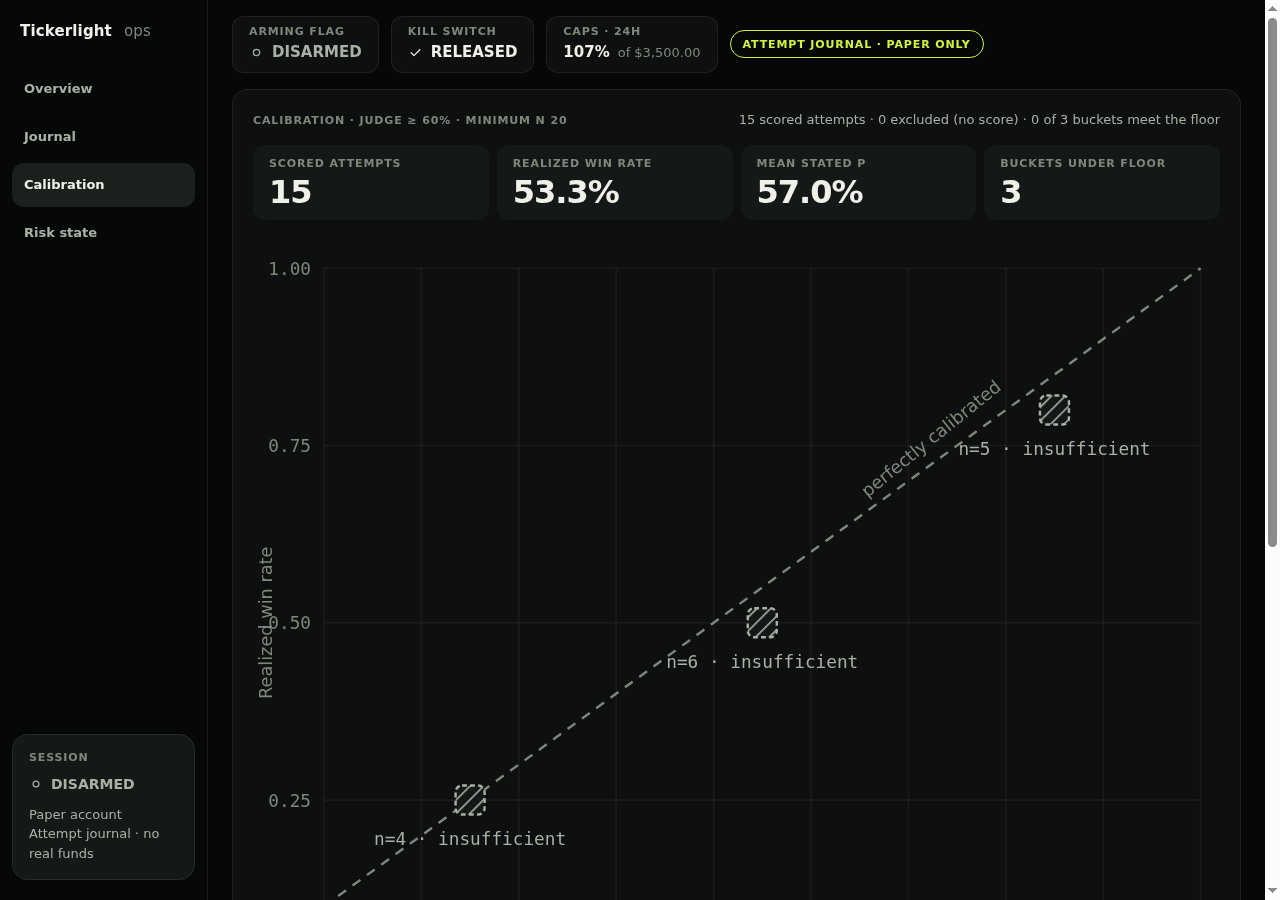
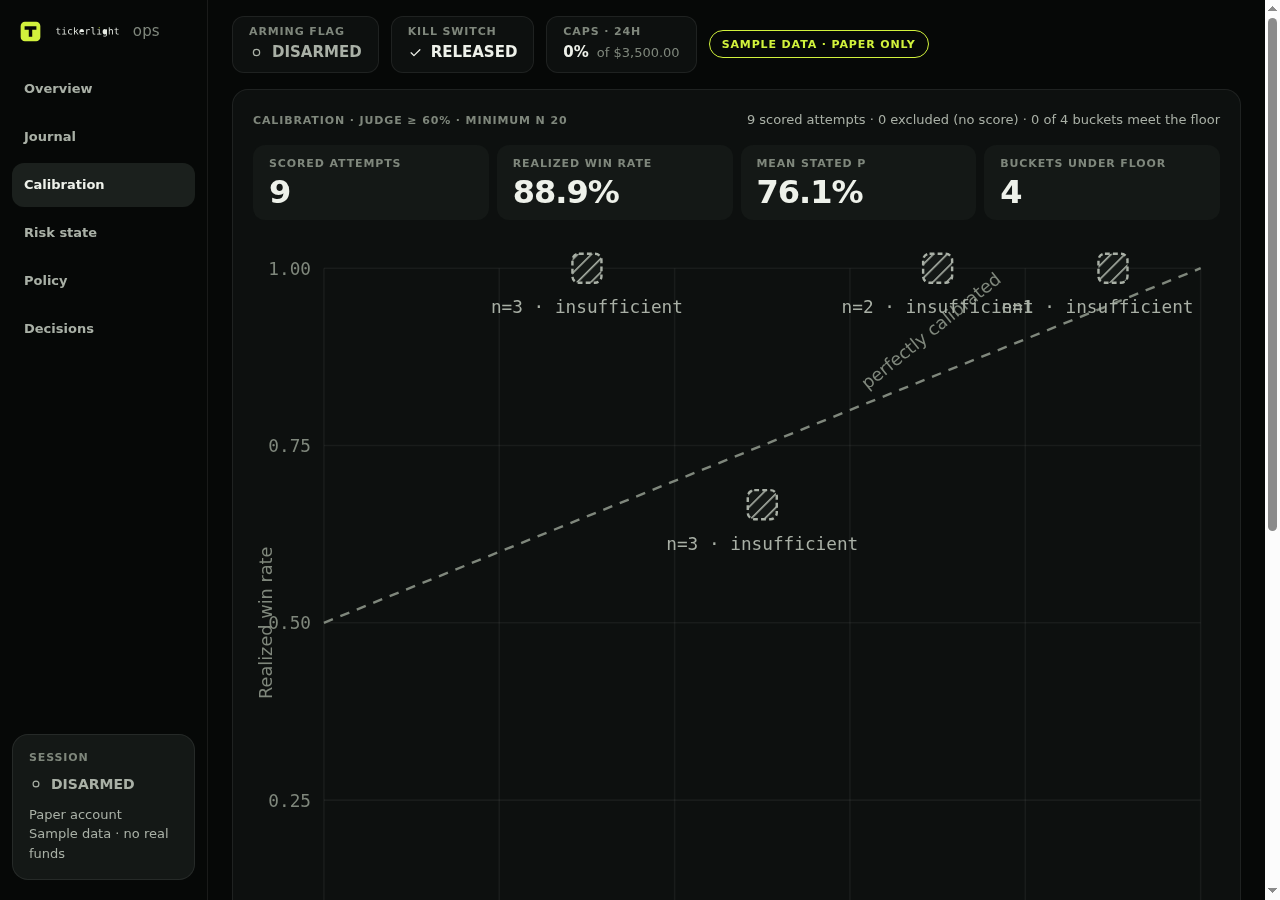
feat(brand): replace the mark with the T-in-tile and wire it everywhere (#20)
* feat(brand): replace the mark with the T-in-tile and wire it everywhere

The console had a mark nobody could read at icon size and a wordmark that
depended on a monospace font being installed. This replaces both.

- One shape: a lime tile with a T cut out of it. The tile is the surface,
  the T is the dark showing through, so the mark has no seams and inverts
  to one colour without redrawing.
- The wordmark ships as outlines, extracted from the glyphs, with a single
  lime dot on the i in "light".
- Assets: 512/192/maskable/apple-touch PNGs rasterised at their real sizes
  (no downsampling), plus svg/32/16 favicons and an .ico for old clients.
- The sidebar carries the mark and the outlined wordmark; the rail keeps
  the mark alone, and the narrow layout drops it for the bottom bar.
- README banner rebuilt in the mark's palette, screenshots retaken, and the
  design record kept under docs/brand with the rejected rounds archived.

* chore(brand): keep only the chosen marks in the tree

The brand directory had become a working desk: two rounds of rejected
explorations, my own note files and the local preview harnesses. None of
that is product, docs or evidence, and it is the kind of thing that gets
mistaken for intent later.

Keep the masters and the proof sheet, move the two wordmark sources up to
the top level where the README says they are, and drop the rest - the
history has it. The rejected ideas stay documented as prose in the brand
[…]

diff --git a/internal/web/static/styles.css b/internal/web/static/styles.css
@@ -39,6 +39,8 @@ button:disabled{cursor:not-allowed;opacity:.5}
 .side{position:sticky;top:0;height:100vh;display:flex;flex-direction:column;gap:24px;padding:20px 12px;border-right:1px solid var(--line)}
 .brand{display:flex;align-items:center;gap:12px;padding:0 8px;font-weight:700;font-size:15px;letter-spacing:.01em}
 .brand span{color:var(--lbl);font-weight:500}
+.brand img{display:block;flex:none}
+.brandword{height:15px;width:auto}
 .tabs{display:flex;flex-direction:column;gap:4px}
 .tabs .tablink{display:flex;align-items:center;gap:12px;min-height:44px;padding:0 12px;border:0;border-radius:var(--ri);background:transparent;color:var(--tx2);font-weight:600;text-align:left;transition:background var(--t),color var(--t)}
 .tabs .tablink:hover{background:var(--s2);color:var(--tx)}
@@ -202,7 +204,7 @@ dialog .acts{display:flex;gap:8px;justify-content:flex-end;margin-top:24px}
 @media (max-width:1180px){
   .shell{grid-template-columns:72px minmax(0,1fr)}
   .side{padding:20px 8px;align-items:center}
-  .brand span,.tabs .tablink .tl,.sess{display:none}
+  .brand span,.brand .brandword,.tabs .tablink .tl,.sess{display:none}
   .brand{padding:0}
   .tabs .tablink{justify-content:center;padding:0;width:48px}
   .c8,.c4{grid-column:span 12}

diff --git a/internal/ui/layout_templ.go b/internal/ui/layout_templ.go
@@ -60,7 +60,7 @@ func Layout(v View) templ.Component {
 		if templ_7745c5c3_Err != nil {
 			return templ_7745c5c3_Err
 		}
-		templ_7745c5c3_Err = templruntime.WriteString(templ_7745c5c3_Buffer, 3, ")</title><meta name=\"theme-color\" content=\"#060807\"><meta name=\"mobile-web-app-capable\" content=\"yes\"><meta name=\"apple-mobile-web-app-capable\" content=\"yes\"><meta name=\"apple-mobile-web-app-title\" content=\"Tickerlight\"><meta name=\"apple-mobile-web-app-status-bar-style\" content=\"black-translucent\"><link rel=\"manifest\" href=\"/static/manifest.json\"><link rel=\"apple-touch-icon\" href=\"/static/icons/apple-touch-icon.png\"><link rel=\"icon\" type=\"image/png\" href=\"/static/icons/icon-192.png\"><link rel=\"stylesheet\" href=\"/static/styles.css\"><script src=\"/static/htmx.min.js\" defer></script><script src=\"/static/app.js\" defer></script></head><body><div class=\"shell\"><aside class=\"side\"><div class=\"brand\" aria-hidden=\"true\">Tickerlight <span>ops</span></div>")
+		templ_7745c5c3_Err = templruntime.WriteString(templ_7745c5c3_Buffer, 3, ")</title><meta name=\"theme-color\" content=\"#060807\"><meta name=\"mobile-web-app-capable\" content=\"yes\"><meta name=\"apple-mobile-web-app-capable\" content=\"yes\"><meta name=\"apple-mobile-web-app-title\" content=\"Tickerlight\"><meta name=\"apple-mobile-web-app-status-bar-style\" content=\"black-translucent\"><link rel=\"manifest\" href=\"/static/manifest.json\"><link rel=\"apple-touch-icon\" href=\"/static/icons/apple-touch-icon.png\"><link rel=\"icon\" type=\"image/svg+xml\" href=\"/static/icons/favicon.svg\"><link rel=\"icon\" type=\"image/png\" sizes=\"32x32\" href=\"/static/icons/favicon-32.png\"><link rel=\"icon\" type=\"image/png\" sizes=\"16x16\" href=\"/static/icons/favicon-16.png\"><link rel=\"stylesheet\" href=\"/static/styles.css\"><script src=\"/static/htmx.min.js\" defer></script><script src=\"/static/app.js\" defer></script></head><body><div class=\"shell\"><aside class=\"side\"><div class=\"brand\"><img src=\"/static/icons/mark.svg\" width=\"21\" height=\"21\" alt=\"\"> <img class=\"brandword\" src=\"/static/icons/wordmark.svg\" height=\"15\" alt=\"Tickerlight\"> <span>ops</span></div>")
 		if templ_7745c5c3_Err != nil {
 			return templ_7745c5c3_Err
 		}
@@ -83,7 +83,7 @@ func Layout(v View) templ.Component {
 		var templ_7745c5c3_Var4 string
 		templ_7745c5c3_Var4, templ_7745c5c3_Err = templ.JoinStringErrs(v.AccountLabel())
 		if templ_7745c5c3_Err != nil {
-			return templ.Error{Err: templ_7745c5c3_Err, FileName: `internal/ui/layout.templ`, Line: 38, Col: 41}
+			return templ.Error{Err: templ_7745c5c3_Err, FileName: `internal/ui/layout.templ`, Line: 44, Col: 41}
 		}
 		_, templ_7745c5c3_Err = templ_7745c5c3_Buffer.WriteString(templ.EscapeString(templ_7745c5c3_Var4))
 		if templ_7745c5c3_Err != nil {
@@ -96,7 +96,7 @@ func Layout(v View) templ.Component {
 		var templ_7745c5c3_Var5 string
 		templ_7745c5c3_Var5, templ_7745c5c3_Err = templ.JoinStringErrs(v.SourceLine())
 		if templ_7745c5c3_Err != nil {
-			return templ.Error{Err: templ_7745c5c3_Err, FileName: `internal/ui/layout.templ`, Line: 38, Col: 64}
+			return templ.Error{Err: templ_7745c5c3_Err, FileName: `internal/ui/layout.templ`, Line: 44, Col: 64}
 		}
 		_, templ_7745c5c3_Err = templ_7745c5c3_Buffer.WriteString(templ.EscapeString(templ_7745c5c3_Var5))
 		if templ_7745c5c3_Err != nil {
@@ -117,7 +117,7 @@ func Layout(v View) templ.Component {
 		var templ_7745c5c3_Var6 string
 		templ_7745c5c3_Var6, templ_7745c5c3_Err = templ.JoinStringErrs(v.SourceBadge())
 		if templ_7745c5c3_Err != nil {
-			return templ.Error{Err: templ_7745c5c3_Err, FileName: `internal/ui/layout.templ`, Line: 44, Col: 54}
+			return templ.Error{Err: templ_7745c5c3_Err, FileName: `internal/ui/layout.templ`, Line: 50, Col: 54}
 		}
 		_, templ_7745c5c3_Err = templ_7745c5c3_Buffer.WriteString(templ.EscapeString(templ_7745c5c3_Var6))
 		if templ_7745c5c3_Err != nil {
@@ -165,7 +165,7 @@ func ViewShell(v View) templ.Component {
 		var templ_7745c5c3_Var8 string
 		templ_7745c5c3_Var8, templ_7745c5c3_Err = templruntime.NewAttributeExpression(v.Tab).Resolve(ctx)
 		if templ_7745c5c3_Err != nil {
-			return templ.Error{Err: templ_7745c5c3_Err, FileName: `internal/ui/layout.templ`, Line: 56, Col: 33}
+			return templ.Error{Err: templ_7745c5c3_Err, FileName: `internal/ui/layout.templ`, Line: 62, Col: 33}
 		}
 		_, templ_7745c5c3_Err = templ_7745c5c3_Buffer.WriteString(templ_7745c5c3_Var8)
 		if templ_7745c5c3_Err != nil {
@@ -243,7 +243,7 @@ func nav(v View) templ.Component {
 			var templ_7745c5c3_Var10 string
 			templ_7745c5c3_Var10, templ_7745c5c3_Err = templruntime.NewAttributeExpression(templ.URL(tabURL(t.Key))).ResolveURL(ctx)
 			if templ_7745c5c3_Err != nil {
-				return templ.Error{Err: templ_7745c5c3_Err, FileName: `internal/ui/layout.templ`, Line: 78, Col: 35}
+				return templ.Error{Err: templ_7745c5c3_Err, FileName: `internal/ui/layout.templ`, Line: 84, Col: 35}
 			}
 			_, templ_7745c5c3_Err = templ_7745c5c3_Buffer.WriteString(templ_7745c5c3_Var10)
 			if templ_7745c5c3_Err != nil {
@@ -256,7 +256,7 @@ func nav(v View) templ.Component {
 			var templ_7745c5c3_Var11 string
 			templ_7745c5c3_Var11, templ_7745c5c3_Err = templruntime.NewAttributeExpression(tabURL(t.Key)).Resolve(ctx)
 			if templ_7745c5c3_Err != nil {
-				return templ.Error{Err: templ_7745c5c3_Err, FileName: `internal/ui/layout.templ`, Line: 79, Col: 26}
+				return templ.Error{Err: templ_7745c5c3_Err, FileName: `internal/ui/layout.templ`, Line: 85, Col: 26}
 			}
 			_, templ_7745c5c3_Err = templ_7745c5c3_Buffer.WriteString(templ_7745c5c3_Var11)
 			if templ_7745c5c3_Err != nil {
@@ -269,7 +269,7 @@ func nav(v View) templ.Component {
 			var templ_7745c5c3_Var12 string
 			templ_7745c5c3_Var12, templ_7745c5c3_Err = templruntime.NewAttributeExpression(currentPage(v.Tab == t.Key)).Resolve(ctx)
 			if templ_7745c5c3_Err != nil {
-				return templ.Error{Err: templ_7745c5c3_Err, FileName: `internal/ui/layout.templ`, Line: 84, Col: 46}
+				return templ.Error{Err: templ_7745c5c3_Err, FileName: `internal/ui/layout.templ`, Line: 90, Col: 46}
 			}
 			_, templ_7745c5c3_Err = templ_7745c5c3_Buffer.WriteString(templ_7745c5c3_Var12)
 			if templ_7745c5c3_Err != nil {
@@ -282,7 +282,7 @@ func nav(v View) templ.Component {
 			var templ_7745c5c3_Var13 string
 			templ_7745c5c3_Var13, templ_7745c5c3_Err = templ.JoinStringErrs(t.Label)
 			if templ_7745c5c3_Err != nil {
-				return templ.Error{Err: templ_7745c5c3_Err, FileName: `internal/ui/layout.templ`, Line: 86, Col: 30}
+				return templ.Error{Err: templ_7745c5c3_Err, FileName: `internal/ui/layout.templ`, Line: 92, Col: 30}
 			}
 			_, templ_7745c5c3_Err = templ_7745c5c3_Buffer.WriteString(templ.EscapeString(templ_7745c5c3_Var13))
 			if templ_7745c5c3_Err != nil {
@@ -346,7 +346,7 @@ func chips(v View) templ.Component {
 		var templ_7745c5c3_Var15 string
 		templ_7745c5c3_Var15, templ_7745c5c3_Err = templ.JoinStringErrs(Pct(c.Util(), 0))
 		if templ_7745c5c3_Err != nil {
-			return templ.Error{Err: templ_7745c5c3_Err, FileName: `internal/ui/layout.templ`, Line: 105, Col: 21}
+			return templ.Error{Err: templ_7745c5c3_Err, FileName: `internal/ui/layout.templ`, Line: 111, Col: 21}
 		}
 		_, templ_7745c5c3_Err = templ_7745c5c3_Buffer.WriteString(templ.EscapeString(templ_7745c5c3_Var15))
 		if templ_7745c5c3_Err != nil {
@@ -359,7 +359,7 @@ func chips(v View) templ.Component {
 		var templ_7745c5c3_Var16 string
 		templ_7745c5c3_Var16, templ_7745c5c3_Err = templ.JoinStringErrs(c.ChipDen())
 		if templ_7745c5c3_Err != nil {
-			return templ.Error{Err: templ_7745c5c3_Err, FileName: `internal/ui/layout.templ`, Line: 106, Col: 57}
+			return templ.Error{Err: templ_7745c5c3_Err, FileName: `internal/ui/layout.templ`, Line: 112, Col: 57}
 		}
 		_, templ_7745c5c3_Err = templ_7745c5c3_Buffer.WriteString(templ.EscapeString(templ_7745c5c3_Var16))
 		if templ_7745c5c3_Err != nil {
@@ -377,7 +377,7 @@ func chips(v View) templ.Component {
 			var templ_7745c5c3_Var17 string
 			templ_7745c5c3_Var17, templ_7745c5c3_Err = templ.JoinStringErrs(USD(c.PerOrder))
 			if templ_7745c5c3_Err != nil {
-				return templ.Error{Err: templ_7745c5c3_Err, FileName: `internal/ui/layout.templ`, Line: 109, Col: 71}
+				return templ.Error{Err: templ_7745c5c3_Err, FileName: `internal/ui/layout.templ`, Line: 115, Col: 71}
 			}
 			_, templ_7745c5c3_Err = templ_7745c5c3_Buffer.WriteString(templ.EscapeString(templ_7745c5c3_Var17))
 			if templ_7745c5c3_Err != nil {
@@ -424,7 +424,7 @@ func armWord(size int, v View) templ.Component {
 			var templ_7745c5c3_Var19 string
 			templ_7745c5c3_Var19, templ_7745c5c3_Err = templruntime.SanitizeStyleAttributeValues(wordStyle(size, "#FF5A5F"))
 			if templ_7745c5c3_Err != nil {
-				return templ.Error{Err: templ_7745c5c3_Err, FileName: `internal/ui/layout.templ`, Line: 119, Col: 53}
+				return templ.Error{Err: templ_7745c5c3_Err, FileName: `internal/ui/layout.templ`, Line: 125, Col: 53}
 			}
 			_, templ_7745c5c3_Err = templ_7745c5c3_Buffer.WriteString(templ.EscapeString(templ_7745c5c3_Var19))
 			if templ_7745c5c3_Err != nil {
@@ -450,7 +450,7 @@ func armWord(size int, v View) templ.Component {
 			var templ_7745c5c3_Var20 string
 			templ_7745c5c3_Var20, templ_7745c5c3_Err = templruntime.SanitizeStyleAttributeValues(wordStyle(size, ""))
 			if templ_7745c5c3_Err != nil {
-				return templ.Error{Err: templ_7745c5c3_Err, FileName: `internal/ui/layout.templ`, Line: 123, Col: 46}
+				return templ.Error{Err: templ_7745c5c3_Err, FileName: `internal/ui/layout.templ`, Line: 129, Col: 46}
 			}
 			_, templ_7745c5c3_Err = templ_7745c5c3_Buffer.WriteString(templ.EscapeString(templ_7745c5c3_Var20))
 			if templ_7745c5c3_Err != nil {
@@ -476,7 +476,7 @@ func armWord(size int, v View) templ.Component {
 			var templ_7745c5c3_Var21 string
 			templ_7745c5c3_Var21, templ_7745c5c3_Err = templruntime.SanitizeStyleAttributeValues(wordStyle(size, ""))
 			if templ_7745c5c3_Err != nil {
-				return templ.Error{Err: templ_7745c5c3_Err, FileName: `internal/ui/layout.templ`, Line: 127, Col: 50}
+				return templ.Error{Err: templ_7745c5c3_Err, FileName: `internal/ui/layout.templ`, Line: 133, Col: 50}
 			}
 			_, templ_7745c5c3_Err = templ_7745c5c3_Buffer.WriteString(templ.EscapeString(templ_7745c5c3_Var21))
 			if templ_7745c5c3_Err != nil {
@@ -527,7 +527,7 @@ func killStatus(size int, v View) templ.Component {
 			var templ_7745c5c3_Var23 string
 			templ_7745c5c3_Var23, templ_7745c5c3_Err = templruntime.SanitizeStyleAttributeValues(wordStyle(size, "#FF5A5F"))
 			if templ_7745c5c3_Err != nil {
-				return templ.Error{Err: templ_7745c5c3_Err, FileName: `internal/ui/layout.templ`, Line: 138, Col: 53}
+				return templ.Error{Err: templ_7745c5c3_Err, FileName: `internal/ui/layout.templ`, Line: 144, Col: 53}
 			}
 			_, templ_7745c5c3_Err = templ_7745c5c3_Buffer.WriteString(templ.EscapeString(templ_7745c5c3_Var23))
 			if templ_7745c5c3_Err != nil {
@@ -553,7 +553,7 @@ func killStatus(size int, v View) templ.Component {
 			var templ_7745c5c3_Var24 string
 			templ_7745c5c3_Var24, templ_7745c5c3_Err = templruntime.SanitizeStyleAttributeValues(wordStyle(size, ""))
 			if templ_7745c5c3_Err != nil {
-				return templ.Error{Err: templ_7745c5c3_Err, FileName: `internal/ui/layout.templ`, Line: 142, Col: 46}
+				return templ.Error{Err: templ_7745c5c3_Err, FileName: `internal/ui/layout.templ`, Line: 148, Col: 46}
 			}
 			_, templ_7745c5c3_Err = templ_7745c5c3_Buffer.WriteString(templ.EscapeString(templ_7745c5c3_Var24))
 			if templ_7745c5c3_Err != nil {
@@ -601,7 +601,7 @@ func Icon(name string, size int) templ.Component {
 		var templ_7745c5c3_Var26 string
 		templ_7745c5c3_Var26, templ_7745c5c3_Err = templruntime.SanitizeStyleAttributeValues(iconStyle(size))
 		if templ_7745c5c3_Err != nil {
-			return templ.Error{Err: templ_7745c5c3_Err, FileName: `internal/ui/layout.templ`, Line: 150, Col: 182}
+			return templ.Error{Err: templ_7745c5c3_Err, FileName: `internal/ui/layout.templ`, Line: 156, Col: 182}
 		}
 		_, templ_7745c5c3_Err = templ_7745c5c3_Buffer.WriteString(templ.EscapeString(templ_7745c5c3_Var26))
 		if templ_7745c5c3_Err != nil {
@@ -692,7 +692,7 @@ func Badge(o tickerdata.Outcome) templ.Component {
 		var templ_7745c5c3_Var30 string
 		templ_7745c5c3_Var30, templ_7745c5c3_Err = templ.JoinStringErrs(o.Meta().Label)
 		if templ_7745c5c3_Err != nil {
-			return templ.Error{Err: templ_7745c5c3_Err, FileName: `internal/ui/layout.templ`, Line: 159, Col: 18}
+			return templ.Error{Err: templ_7745c5c3_Err, FileName: `internal/ui/layout.templ`, Line: 165, Col: 18}
 		}
 		_, templ_7745c5c3_Err = templ_7745c5c3_Buffer.WriteString(templ.EscapeString(templ_7745c5c3_Var30))
 		if templ_7745c5c3_Err != nil {
@@ -731,7 +731,7 @@ func Spine(o tickerdata.Outcome) templ.Component {
 		var templ_7745c5c3_Var32 string
 		templ_7745c5c3_Var32, templ_7745c5c3_Err = templruntime.NewAttributeExpression(joinStates(StageStates(o), ", ")).Resolve(ctx)
 		if templ_7745c5c3_Err != nil {
-			return templ.Error{Err: templ_7745c5c3_Err, FileName: `internal/ui/layout.templ`, Line: 165, Col: 77}
+			return templ.Error{Err: templ_7745c5c3_Err, FileName: `internal/ui/layout.templ`, Line: 171, Col: 77}
 		}
 		_, templ_7745c5c3_Err = templ_7745c5c3_Buffer.WriteString(templ_7745c5c3_Var32)
 		if templ_7745c5c3_Err != nil {
@@ -744,7 +744,7 @@ func Spine(o tickerdata.Outcome) templ.Component {
 		var templ_7745c5c3_Var33 string
 		templ_7745c5c3_Var33, templ_7745c5c3_Err = templruntime.NewAttributeExpression(joinStates(StageStates(o), " · ")).Resolve(ctx)
 		if templ_7745c5c3_Err != nil {
-			return templ.Error{Err: templ_7745c5c3_Err, FileName: `internal/ui/layout.templ`, Line: 165, Col: 122}
+			return templ.Error{Err: templ_7745c5c3_Err, FileName: `internal/ui/layout.templ`, Line: 171, Col: 122}
 		}
 		_, templ_7745c5c3_Err = templ_7745c5c3_Buffer.WriteString(templ_7745c5c3_Var33)
 		if templ_7745c5c3_Err != nil {
@@ -810,7 +810,7 @@ func TicksMeter(p float64, n int, label, max, now string) templ.Component {
 		var templ_7745c5c3_Var35 string
 		templ_7745c5c3_Var35, templ_7745c5c3_Err = templruntime.NewAttributeExpression(label).Resolve(ctx)
 		if templ_7745c5c3_Err != nil {
-			return templ.Error{Err: templ_7745c5c3_Err, FileName: `internal/ui/layout.templ`, Line: 182, Col: 37}
+			return templ.Error{Err: templ_7745c5c3_Err, FileName: `internal/ui/layout.templ`, Line: 188, Col: 37}
 		}
 		_, templ_7745c5c3_Err = templ_7745c5c3_Buffer.WriteString(templ_7745c5c3_Var35)
 		if templ_7745c5c3_Err != nil {
@@ -823,7 +823,7 @@ func TicksMeter(p float64, n int, label, max, now string) templ.Component {
 		var templ_7745c5c3_Var36 string
 		templ_7745c5c3_Var36, templ_7745c5c3_Err = templruntime.NewAttributeExpression(max).Resolve(ctx)
 		if templ_7745c5c3_Err != nil {
-			return templ.Error{Err: templ_7745c5c3_Err, FileName: `internal/ui/layout.templ`, Line: 182, Col: 77}
+			return templ.Error{Err: templ_7745c5c3_Err, FileName: `internal/ui/layout.templ`, Line: 188, Col: 77}
 		}
 		_, templ_7745c5c3_Err = templ_7745c5c3_Buffer.WriteString(templ_7745c5c3_Var36)
 		if templ_7745c5c3_Err != nil {
@@ -836,7 +836,7 @@ func TicksMeter(p float64, n int, label, max, now string) templ.Component {
 		var templ_7745c5c3_Var37 string
 		templ_7745c5c3_Var37, templ_7745c5c3_Err = templruntime.NewAttributeExpression(now).Resolve(ctx)
 		if templ_7745c5c3_Err != nil {
-			return templ.Error{Err: templ_7745c5c3_Err, FileName: `internal/ui/layout.templ`, Line: 182, Col: 99}
+			return templ.Error{Err: templ_7745c5c3_Err, FileName: `internal/ui/layout.templ`, Line: 188, Col: 99}
 		}
 		_, templ_7745c5c3_Err = templ_7745c5c3_Buffer.WriteString(templ_7745c5c3_Var37)
 		if templ_7745c5c3_Err != nil {

diff --git a/docs/brand/README.md b/docs/brand/README.md
@@ -1,0 +1,52 @@
+# Tickerlight brand mark
+
+The mark is the console's own object: a tile with a T knocked out of it. The tile is the
+dark surface, the T is the machine's face, and the lime is the only light on the page.
+
+- `mark-tile.svg` — the mark, lime tile with a transparent T, 256 viewBox, one colour
+- `mark-app.svg` — app icon master: `#060807` canvas, lime tile, T knocked out
+- `mark-maskable.svg` — full-bleed lime, T inside the 80% safe circle
+- `mark-mono.svg` — one-colour version, ink tile, T knocked out
+- `wordmark-light.svg` — `tickerlight`, outlined from DejaVu Sans Mono, one lime dot
+- `wordmark-ink.svg` — the same outlines, single ink, for print and light surfaces
+- `mark-proof.png` — asset proof: lockup, PWA sizes, maskable crops, favicon
+
+## Shipped assets
+
+`internal/web/static/icons/` carries the geometry at the sizes the console asks for:
+`icon-192.png`, `icon-512.png`, `icon-maskable-512.png`, `apple-touch-icon.png` (180),
+plus `favicon.svg`, `favicon-32.png`, `favicon-16.png` and `favicon.ico`. `manifest.json`
+and `internal/ui/layout.templ` reference those paths.
+
+## Construction
+
+- Tile 240 units on a 256 grid, corner radius 52. T is 144 wide, 128 tall, stroke 42 —
+  stroke and crossbar height are equal, so the mark stays balanced at any weight.
+- T's mass centre sits on the tile's centre; the tile's radius is 21.7% of its side.
+- The T is cut out of the tile rather than drawn on top: on the dark console the tile is
+  the lime surface and the T is the surrounding dark showing through. One shape, no seams.
+- Lime `#D2F23C` carries the tile; ink `#060807` is the T. In one colour the values
+  invert and the mark still reads, which is why it holds in print and in greyscale.
+
+## Size behaviour (measured, real 16 px raster)
+
+At 16 px the crossbar holds two pixel rows and the stem five, with both notches open —
+the T still reads. Below that the tile's radius starts eating the crossbar, so 16 is the
+floor, and the favicon cut is used there rather than the app icon.
+
+## Wordmark
+
+Set in DejaVu Sans Mono and converted to outlines (no font dependency at render time), so
+the letters ship as paths. One dot is lime: the `i` in "light". The first `i` keeps its
+ink dot — one light per wordmark, not two.
+
+## Rejected along the way
+
+- Bars with a rising shaft, slot flares, gate and beam ideas (rounds 1–2): read as flame,
+  rocket, or a candle chart; several died at 24 px.
+- Round 3: five stacked prints (misregistration at 24 px), raised print in a tape gap
+  (lump at 16 px), capsule switch (phone toggle), T with chisel foot (decoration),
+  T in tile (kept — this is it), sheared-arm T (dropped: read as a switch or a slider).
+
+Only the chosen marks live in this directory. The rejected rounds are in the history of
+this file, not in the tree.

diff --git a/README.md b/README.md
@@ -1,6 +1,6 @@
 <div align="center">
 
-<img src="docs/assets/banner.svg" alt="Tickerlight — every trade explained, every AI decision scored" width="100%">
+<img src="docs/assets/banner.svg" alt="Tickerlight — paper-trading engine and ops console" width="100%">
 
 <p align="center">
   <img src="https://img.shields.io/github/license/jomakori/Tickerlight?logo=apache&logoColor=white&label=License" alt="License">
